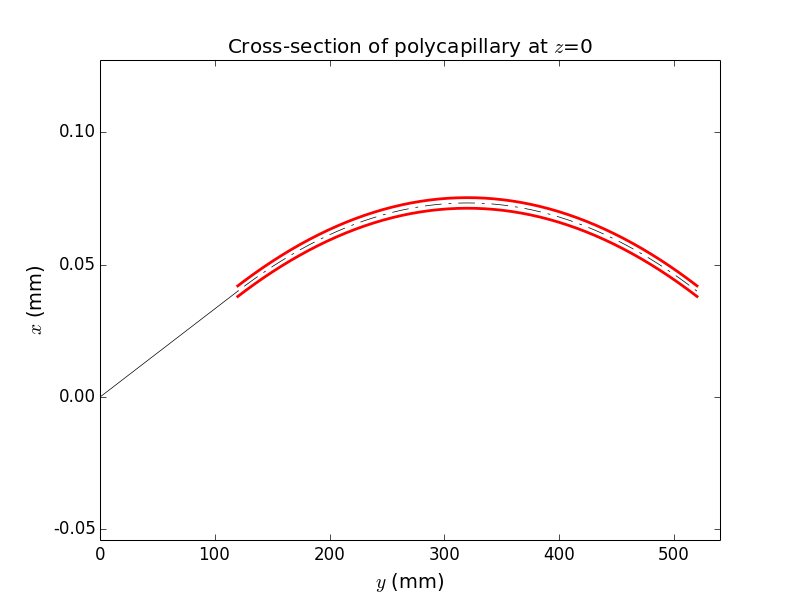
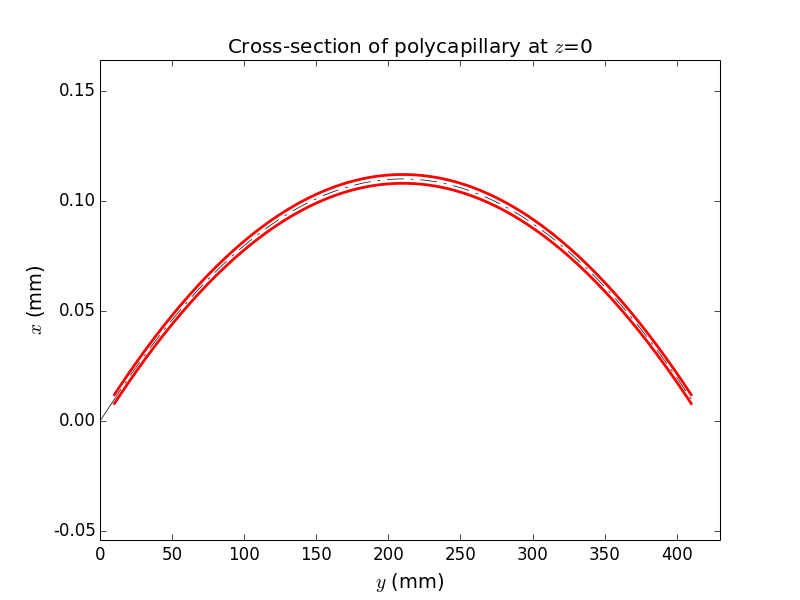
Higher entrance angle,
- not sure how sources work

diff --git a/simplfiedMonoCapillary.py b/simplfiedMonoCapillary.py
@@ -34,14 +34,14 @@ E0 = 9000.          # energy in electronoVolts
 nRefl = 50          # number of reflections
 
 # capillary shape parameters
-rSample = 120.0 # starting position of the lens
+rSample = 10.0 # starting position of the lens
 f = rSample + 400 # y length in mm from foucs to the end of the lens
 r0 = 0.002*1
 rOut = 0.002*1
 wall = 0.0005
 
 # parameters for local_x0 function for actual shape definition
-y_in    = 0.04              # entrance height
+y_in    = 0.01             # entrance height
 rS      = float(rSample)    # light source - capillary distance 
 # Cosh parameter for tangential ray entrance
 a_      = -200.0/np.arcsinh(-y_in/rS)
@@ -220,7 +220,7 @@ def main():
         xaxis=xrtp.XYCAxis(r"$x$", 'mm', data=raycing.get_x, bins=256, ppb=2, limits=xLimits),
         yaxis=xrtp.XYCAxis(r"$z$", 'mm', data=raycing.get_z, bins=256, ppb=2, limits=zLimits),
 #        caxis='category', 
-        caxis=xrtp.XYCAxis("Reflections", 'nr of',data=raycing.get_reflection_number, bins=256, ppb=2, limits=[0,20]),
+        caxis=xrtp.XYCAxis("Reflections", 'nr of',data=raycing.get_reflection_number, bins=256, ppb=2, limits=[0,nRefl]),
         beamState='beamFSM2', title='Real Space', aspect='auto',
         persistentName=persistentName)
     # setting persistentName saves data into a python pickle, and might be
